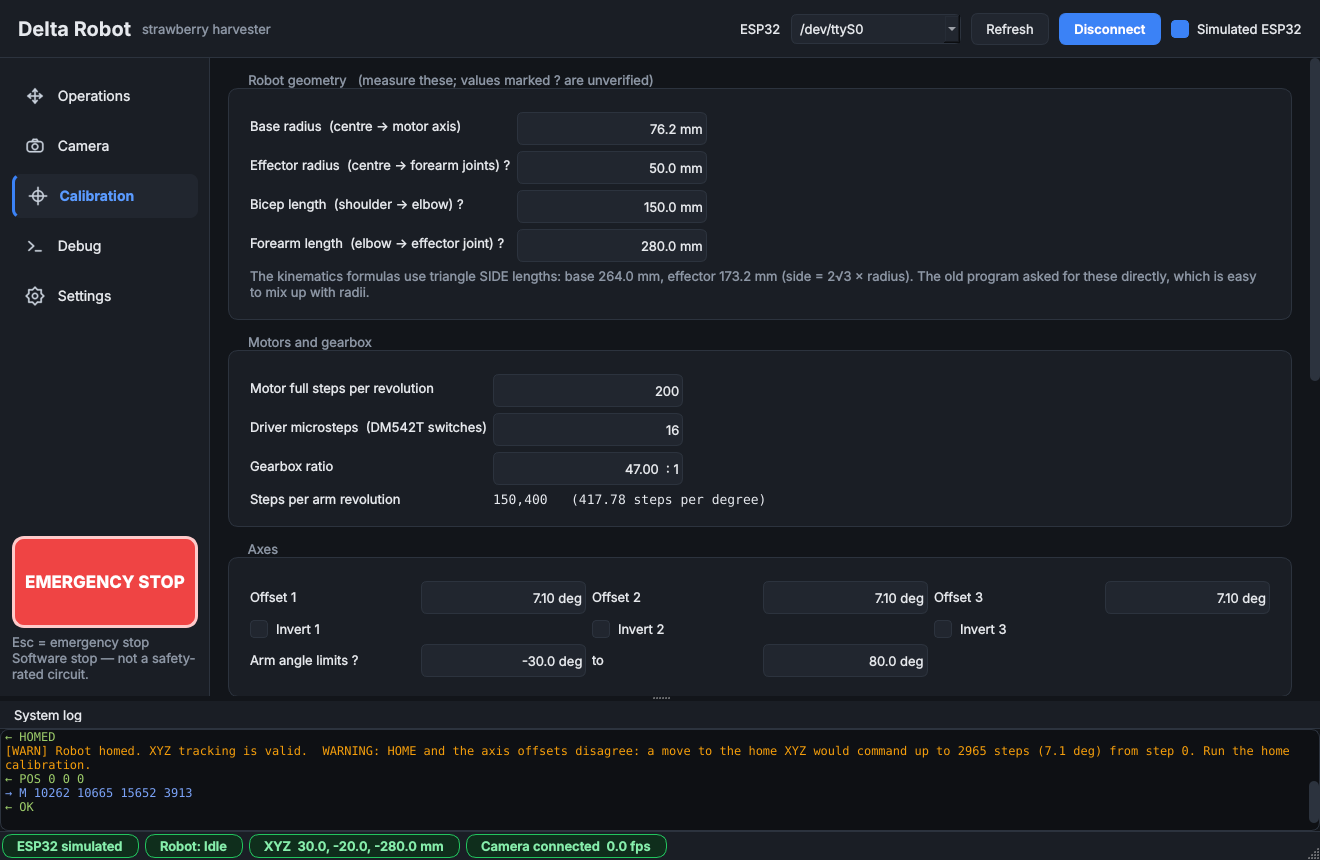
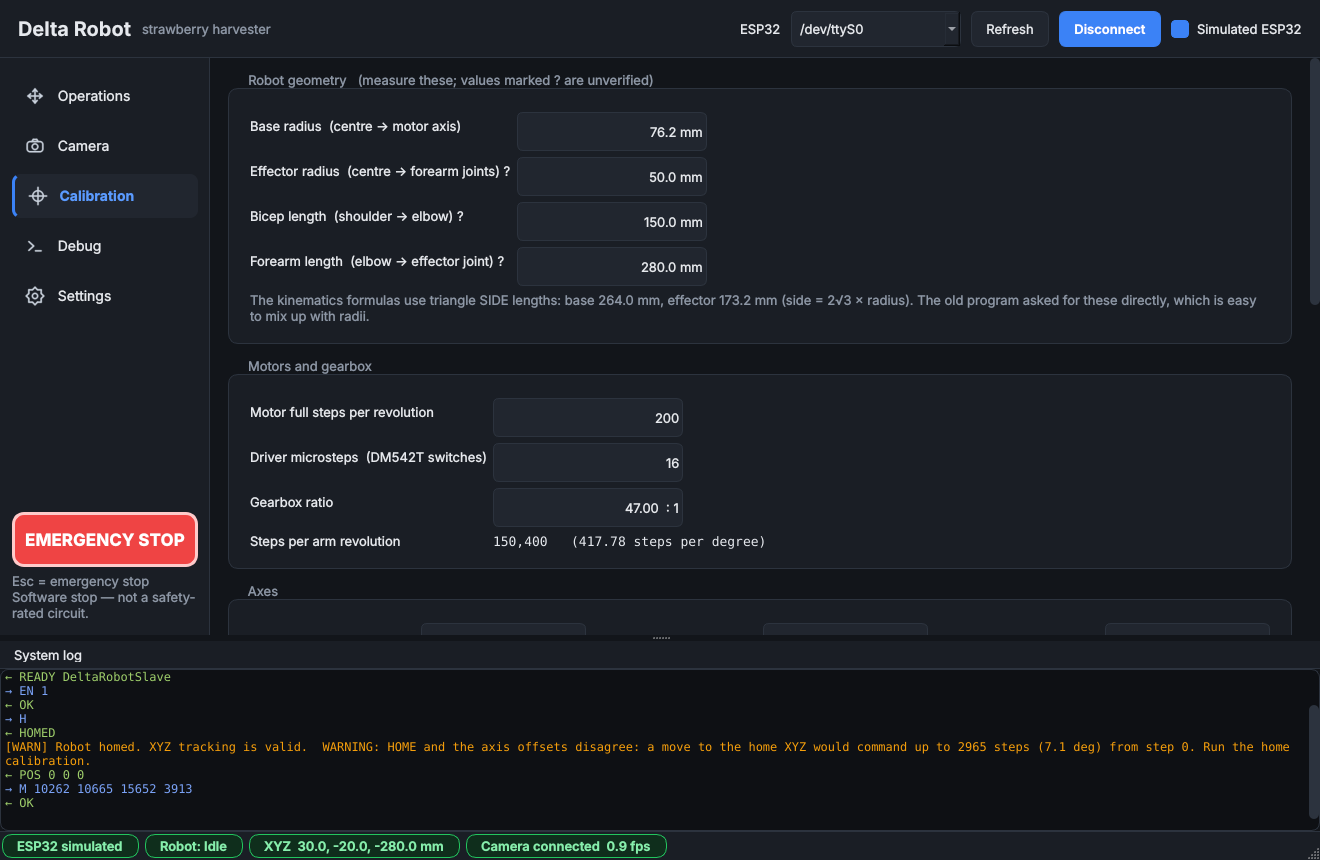
Fix squashed inputs on shorter windows: pages scroll, inputs keep a minimum height
First run on the user's PC showed the Settings page number boxes crushed to ~4 px (window
1310x713): the layout squeezed widgets because pages could not scroll and inputs had no
minimum height. Camera and Debug were affected too.
- Every page is wrapped in a scroll area; the stylesheet gives inputs/buttons a minimum height.
- Calibration page loses its own (now redundant) scroll area.
- Regression test: no input or button is squashed on any page at 1100x720, 1310x713, 1920x1040.

Claude-Session: https://claude.ai/code/session_01BoJ59xnsoRVDsrH4sKyPgh

diff --git a/Delta_Robot/gui/tests/test_gui_qt.py b/Delta_Robot/gui/tests/test_gui_qt.py
@@ -72,7 +72,7 @@ def main():
         win._show_page(key); QTest.qWait(30)
         b = win.estop_btn
         assert b.isVisibleTo(win) and b.height() >= 80 and win.rect().contains(b.mapTo(win, b.rect().center())), key
-        assert win.stack.currentWidget() is win.pages[key]
+        assert win.stack.currentWidget().widget() is win.pages[key]
     print("1. five pages; the E-STOP is visible, large and on-screen on every page OK")
 
     # ----------------------------------------------------------------- 2. connect, enable, home, move (simulated ESP32)
@@ -203,6 +203,24 @@ def main():
                      if img.pixelColor(x, y).lightness() > bg + 60)
         assert bright > 15, f"{box.__class__.__name__} shows no text (bright pixels: {bright})"
     print("7b. number boxes visibly draw their values (pixel check) OK")
+
+    # ----------------------------------------------------------------- 7c. no page may squash its inputs at ANY window size
+    # (the first real run on the user's PC showed Settings boxes crushed to 4 px in a shorter window; the pages now scroll instead)
+    from PyQt6.QtWidgets import QAbstractSpinBox, QComboBox, QLineEdit, QPushButton
+    for (w, h) in ((1100, 720), (1310, 713), (1920, 1040)):
+        win.resize(w, h)
+        for key, _ in PAGES:
+            win._show_page(key); QTest.qWait(120)
+            squashed = []
+            for x in win.pages[key].findChildren((QAbstractSpinBox, QLineEdit, QComboBox, QPushButton)):
+                if not x.isVisibleTo(win.pages[key]) or isinstance(x.parent(), QAbstractSpinBox):
+                    continue                                   # (Qt's inner text field of a spin box is not a real input)
+                need = 24 if not isinstance(x, QPushButton) else 22
+                if x.height() < need:
+                    squashed.append((type(x).__name__, x.height(), (getattr(x, "text", lambda: "")() or "")[:20]))
+            assert not squashed, f"page {key} at {w}x{h}: squashed widgets {squashed[:4]}"
+    win.resize(1320, 860)
+    print("7c. no input or button is squashed on any page at 1100x720, 1310x713 and 1920x1040 (pages scroll instead) OK")
 
     # ----------------------------------------------------------------- 8. wheel safety + test-mode visibility + settings file
     from PyQt6.QtGui import QWheelEvent

diff --git a/Delta_Robot/gui/delta_gui/ui/pages/calibration.py b/Delta_Robot/gui/delta_gui/ui/pages/calibration.py
@@ -12,8 +12,8 @@ Nothing takes effect until "Apply and save" (which is refused while the robot is
 import copy
 import itertools
 
-from PyQt6.QtWidgets import (QCheckBox, QFormLayout, QGridLayout, QHBoxLayout, QLabel, QMessageBox, QPushButton, QScrollArea,
-                             QVBoxLayout, QWidget)
+from PyQt6.QtWidgets import (QCheckBox, QFormLayout, QGridLayout, QHBoxLayout, QLabel, QMessageBox, QPushButton, QVBoxLayout,
+                             QWidget)
 
 from ...core.kinematics import DeltaKinematics, Workspace, joint_limit_violation, radius_to_side
 from ...core.settings import validate
@@ -25,12 +25,7 @@ class CalibrationPage(QWidget):
         super().__init__()
         self.setObjectName("page")
         self.ctx = ctx
-        outer = QVBoxLayout(self)
-        outer.setContentsMargins(0, 0, 0, 0)
-        area = QScrollArea(); area.setWidgetResizable(True); area.setFrameShape(QScrollArea.Shape.NoFrame)
-        outer.addWidget(area)
-        body = QWidget(); body.setObjectName("page"); area.setWidget(body)
-        root = QVBoxLayout(body); root.setContentsMargins(18, 14, 18, 14); root.setSpacing(14)
+        root = QVBoxLayout(self); root.setContentsMargins(18, 14, 18, 14); root.setSpacing(14)
 
         # ---------------------------------------------------------------- geometry
         g = card("Robot geometry   (measure these; values marked ? are unverified)")

diff --git a/Delta_Robot/gui/delta_gui/ui/theme.py b/Delta_Robot/gui/delta_gui/ui/theme.py
@@ -76,6 +76,8 @@ QLabel#check[level="bad"] {{ color: {p['danger']}; }}
 /* ---- inputs ---- */
 QLineEdit, QSpinBox, QDoubleSpinBox, QComboBox {{ background: {p['panel2']}; border: 1px solid {p['border']}; border-radius: 6px;
                                                    padding: 5px 8px; selection-background-color: {p['accent']}; }}
+QLineEdit, QSpinBox, QDoubleSpinBox, QComboBox {{ min-height: 24px; }}
+QPushButton {{ min-height: 20px; }}
 QLineEdit:focus, QSpinBox:focus, QDoubleSpinBox:focus, QComboBox:focus {{ border-color: {p['accent']}; }}
 QComboBox QAbstractItemView {{ background: {p['panel2']}; selection-background-color: {p['accent']}; border: 1px solid {p['border']}; }}
 QAbstractSpinBox::up-button, QAbstractSpinBox::down-button {{ width: 0px; height: 0px; border: none; margin: 0; padding: 0; }}
@@ -97,4 +99,5 @@ QScrollBar::handle:vertical {{ background: {p['border']}; border-radius: 5px; mi
 QScrollBar::add-line, QScrollBar::sub-line {{ height: 0; width: 0; }}
 QLabel#video {{ background: #0b0d11; border: 1px solid {p['border']}; border-radius: 8px; color: {p['muted']}; }}
 QFrame#sep {{ background: {p['border']}; max-height: 1px; }}
+QScrollArea#pagescroll, QScrollArea#pagescroll QWidget#qt_scrollarea_viewport {{ background: {p['bg']}; border: none; }}
 """

diff --git a/Delta_Robot/gui/delta_gui/ui/main_window.py b/Delta_Robot/gui/delta_gui/ui/main_window.py
@@ -17,7 +17,7 @@ from .pages.debug import DebugPage
 from .pages.operations import OperationsPage
 from .pages.settings_page import SettingsPage
 from .theme import PALETTE
-from .widgets import Pill, repolish
+from .widgets import Pill, repolish, scrollable
 
 PAGES = [("operations", "Operations"), ("camera", "Camera"), ("calibration", "Calibration"), ("debug", "Debug"),
          ("settings", "Settings")]
@@ -40,7 +40,7 @@ class MainWindow(QMainWindow):
         self.pages = {"operations": OperationsPage(ctx), "camera": CameraPage(ctx, camera), "calibration": CalibrationPage(ctx),
                       "debug": DebugPage(ctx), "settings": SettingsPage(ctx)}
         for key, _ in PAGES:
-            self.stack.addWidget(self.pages[key])
+            self.stack.addWidget(scrollable(self.pages[key]))
         body.addWidget(self.stack, 1)
         outer.addLayout(body, 1)
         self._build_log()
@@ -143,6 +143,7 @@ class MainWindow(QMainWindow):
         if key not in keys:
             key = "operations"
         self.stack.setCurrentIndex(keys.index(key))
+        self.stack.widget(keys.index(key)).verticalScrollBar().setValue(0)
         self.nav_buttons[key].setChecked(True)
         self.ctx.settings.data["ui"]["page"] = key
 

diff --git a/Delta_Robot/gui/delta_gui/ui/widgets.py b/Delta_Robot/gui/delta_gui/ui/widgets.py
@@ -5,7 +5,7 @@ from typing import Optional
 
 from PyQt6.QtCore import Qt
 from PyQt6.QtGui import QImage, QPixmap
-from PyQt6.QtWidgets import (QDoubleSpinBox, QFormLayout, QFrame, QGroupBox, QLabel, QSizePolicy, QSpinBox,
+from PyQt6.QtWidgets import (QDoubleSpinBox, QFormLayout, QFrame, QGroupBox, QLabel, QScrollArea, QSizePolicy, QSpinBox,
                              QVBoxLayout, QWidget)
 
 
@@ -82,6 +82,17 @@ class ImageView(QLabel):
     def resizeEvent(self, ev) -> None:        # noqa: N802 (Qt naming)
         super().resizeEvent(ev)
         self._rescale()
+
+
+def scrollable(page: QWidget) -> QScrollArea:
+    """Wrap a page so that, when the window is too short for it, it SCROLLS instead of squeezing its contents flat."""
+    sa = QScrollArea()
+    sa.setObjectName("pagescroll")
+    sa.setWidgetResizable(True)
+    sa.setFrameShape(QFrame.Shape.NoFrame)
+    sa.setHorizontalScrollBarPolicy(Qt.ScrollBarPolicy.ScrollBarAlwaysOff)
+    sa.setWidget(page)
+    return sa
 
 
 def card(title: str) -> QGroupBox:
